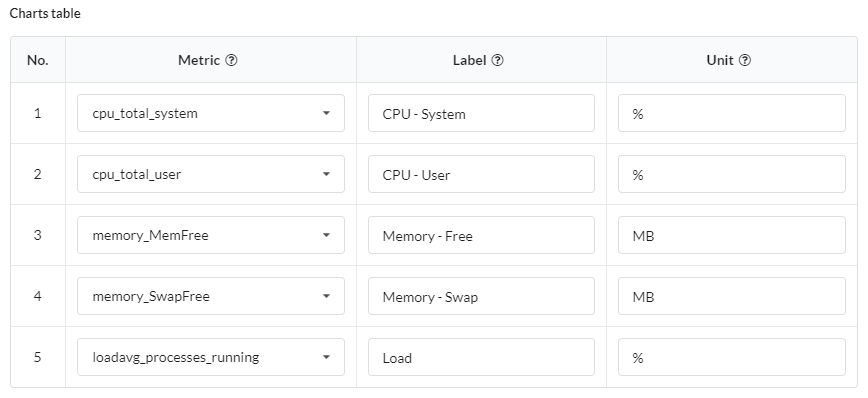
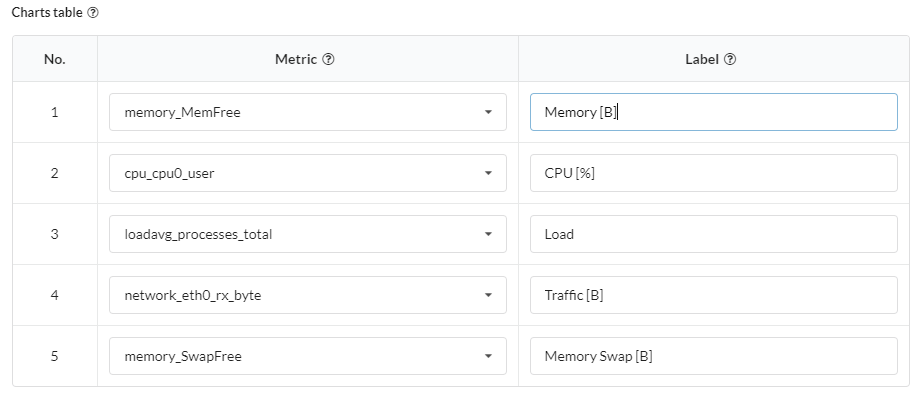
Updated widget's configuration documentation (STAGE-636) Updated Deployment Metric Graph widget confguration

diff --git a/content/manager_webui/custom-widgets.md b/content/manager_webui/custom-widgets.md
@@ -98,11 +98,29 @@ Option                 | Type    | Default | Description
 `categories`           | array   | -       | This property specifies in which categories this widget shall be visible. It may take an array containing one or more of the values defined in `Stage.GenericConfig.CATEGORY` object: `BLUEPRINTS` ('Blueprints' category), `DEPLOYMENTS` ('Deployments'), `BUTTONS_AND_FILTERS` ('Buttons and Filters'), `CHARTS_AND_STATISTICS` ('Charts and Statistics'), `EXECUTIONS_NODES` ('Executions/Nodes'), `SYSTEM_RESOURCES` ('System Resources'), `OTHERS` ('Others'), `ALL` ('All'). Optional.
 `permission`           | string  | -       | This property specifies which user may later access and view this widget. It may take one of the following three values defined in `Stage.GenericConfig.CUSTOM_WIDGET_PERMISSIONS` object: `CUSTOM_ADMIN_ONLY` (applies for 'sys_admin' and 'manager' roles), `CUSTOM_SYS_ADMIN_ONLY` (applies for 'sys_admin' only, `CUSTOM_ALL` (applies to all user-roles). Mandatory.
 
-**Note:** initialConfiguration supports 4 generic pre-made config fields (see `fetchUrl` for example):
+#### initialConfiguration
+`initialConfiguration` supports 4 generic pre-made config fields (see `fetchUrl` for example):
+
 * `Stage.GenericConfig.POLLING_TIME_CONFIG(int)` - How often to refresh the data (in seconds)
 * `Stage.GenericConfig.PAGE_SIZE_CONFIG()` - Takes no arguments and set's the page size to default 5
 * `Stage.GenericConfig.SORT_COLUMN_CONFIG(string)` - Column name to sort by
 * `Stage.GenericConfig.SORT_ASCENDING_CONFIG(boolean)` - Change sorting order (true=ascending)
+
+Despite listed above, you can create your own configuration fields. Example of configuration with user-defined fields:
+```javascript
+    initialConfiguration: [
+        Stage.GenericConfig.PAGE_SIZE_CONFIG(3),
+        {id: 'username', name: 'Fetch with', placeHolder:"GitHub user", description:"...", default:"cloudify-examples", type: Stage.Basic.GenericField.STRING_TYPE},
+        {id: 'filter', name: 'Filter', placeHolder:"GitHub filter", description:"...", default:"blueprint in:name NOT local", type: Stage.Basic.GenericField.STRING_TYPE},
+        {id: "displayStyle",name: "Display style", items: [{name:'Table', value:'table'}, {name:'Catalog', value:'catalog'}], default: "catalog", type: Stage.Basic.GenericField.LIST_TYPE},
+        Stage.GenericConfig.SORT_COLUMN_CONFIG('created_at'),
+        Stage.GenericConfig.SORT_ASCENDING_CONFIG(false)
+    ]
+```
+You can find all the configuration fields possibilities in `GenericField` component documentation 
+(see [Basic components reference documentation]({{< relref "manager_webui/custom-widgets-ref/index.html" >}}) for details).
+
+Configuration fields values can be fetched in `render` method using `widget.configuration` object. See [Accessing data in render()]({{< relref "manager_webui/custom-widgets.md#accessing-data-in-render" >}}) for details.
 
 #### fetchUrl
 There are two primary ways of pulling data from remote sources: `fetchUrl` and `fetchData()`.
@@ -394,6 +412,7 @@ The toolbox provides access to the following tools:
 
 #### getEventBus() 
 Used to register (listen to) and trigger events. The event bus is used to enable a widget to broadcast an event, usually a change that it made that will affect others. For example, if a blueprints widget creates a new deployment, other widgets need to be aware that the the deployment list has changed. The listening widgets then call a `refresh`. `Event bus` supports the following methods:   
+
 * `on (event, callback, context)`
 * `trigger (event)`
 * `off (event, offCallback)`   

diff --git a/content/manager_webui/default-widgets-ref.md b/content/manager_webui/default-widgets-ref.md
@@ -97,21 +97,13 @@ You must supply at least one metric or database query in the widget configuratio
 The following list provides information regarding parameters that can be specified for this widget. 
 
 * `Refresh Time Interval` - how frequently the data in the widget is refreshed (in secs).
-* `Deployment ID` - the ID of the deployment for which you want to display data. The ID can be passed in two ways:
-   * as part of the page's context. For example, if you add the graph widget to the deployment drill-down page, in order to access the graph widget you must first choose a deployment from the deployments page. In that case, the drilled-down page already contains the context of the deployment you chose, so the widget automatically retrieves the Deployment ID from it. You can also set Deployment ID in page's context using [Filter by blueprint, deployment widget](filter-by-blueprint-deployment-or-execution)
-   * if a Deployment ID was not provided by the page’s context, the widget looks for a specific Deployment ID to be provided in its configuration Deployment ID field.
-
+* `Node filter` - the node instance for which you want to display data. Deployment ID and Node Instance ID must be set in the configuration or as part of the page's context. You can set deployment ID and node instance ID in page's context using [Filter by blueprint, deployment widget](#filter-by-blueprint-deployment-or-execution)
+    ![Node filter configuration]({{< img "ui/widgets/deployment-metric-graph-configuration-node-filter.png" >}})
 * `Charts Table` - table containing definition of up to 5 charts. 
     ![Charts Table configuration]({{< img "ui/widgets/deployment-metric-graph-configuration-charts-table.png" >}})
     You can define the following parameters:  
-    * `Metric` - the specific Diamond metric you want the widget to display. This parameter is mandatory. For more information about these metrics, see the [Diamond documentation](http://diamond.readthedocs.io/en/latest/). The available options are:   
-        * `cpu_total_system`
-        * `cpu_total_user`
-        * `memory_MemFree`
-        * `memory_SwapFree`
-        * `loadavg_processes_running`
+    * `Metric` - the specific Diamond metric you want the widget to display. This parameter is mandatory. For more information about these metrics, see the [Diamond documentation](http://diamond.readthedocs.io/en/latest/). The available options are dynamically fetched from InfluxDB filtered by `Node filter` parameter.    
     * `Label` - the label to be displayed for the specific chart (the label will be displayed at the bottom of the chart). Parameter is optional. When not specified, then metric name will be taken as chart label.
-    * `Unit` - the unit to be displayed for the specific chart (the unit will follow label and will be displayed in the square brackets). Parameter is optional.
      
 * `Time range and resolution` - enables you to specify the timeframe of the metrics to be displayed. For details of the configuration see [Time filter widget](#time-filter).
     
